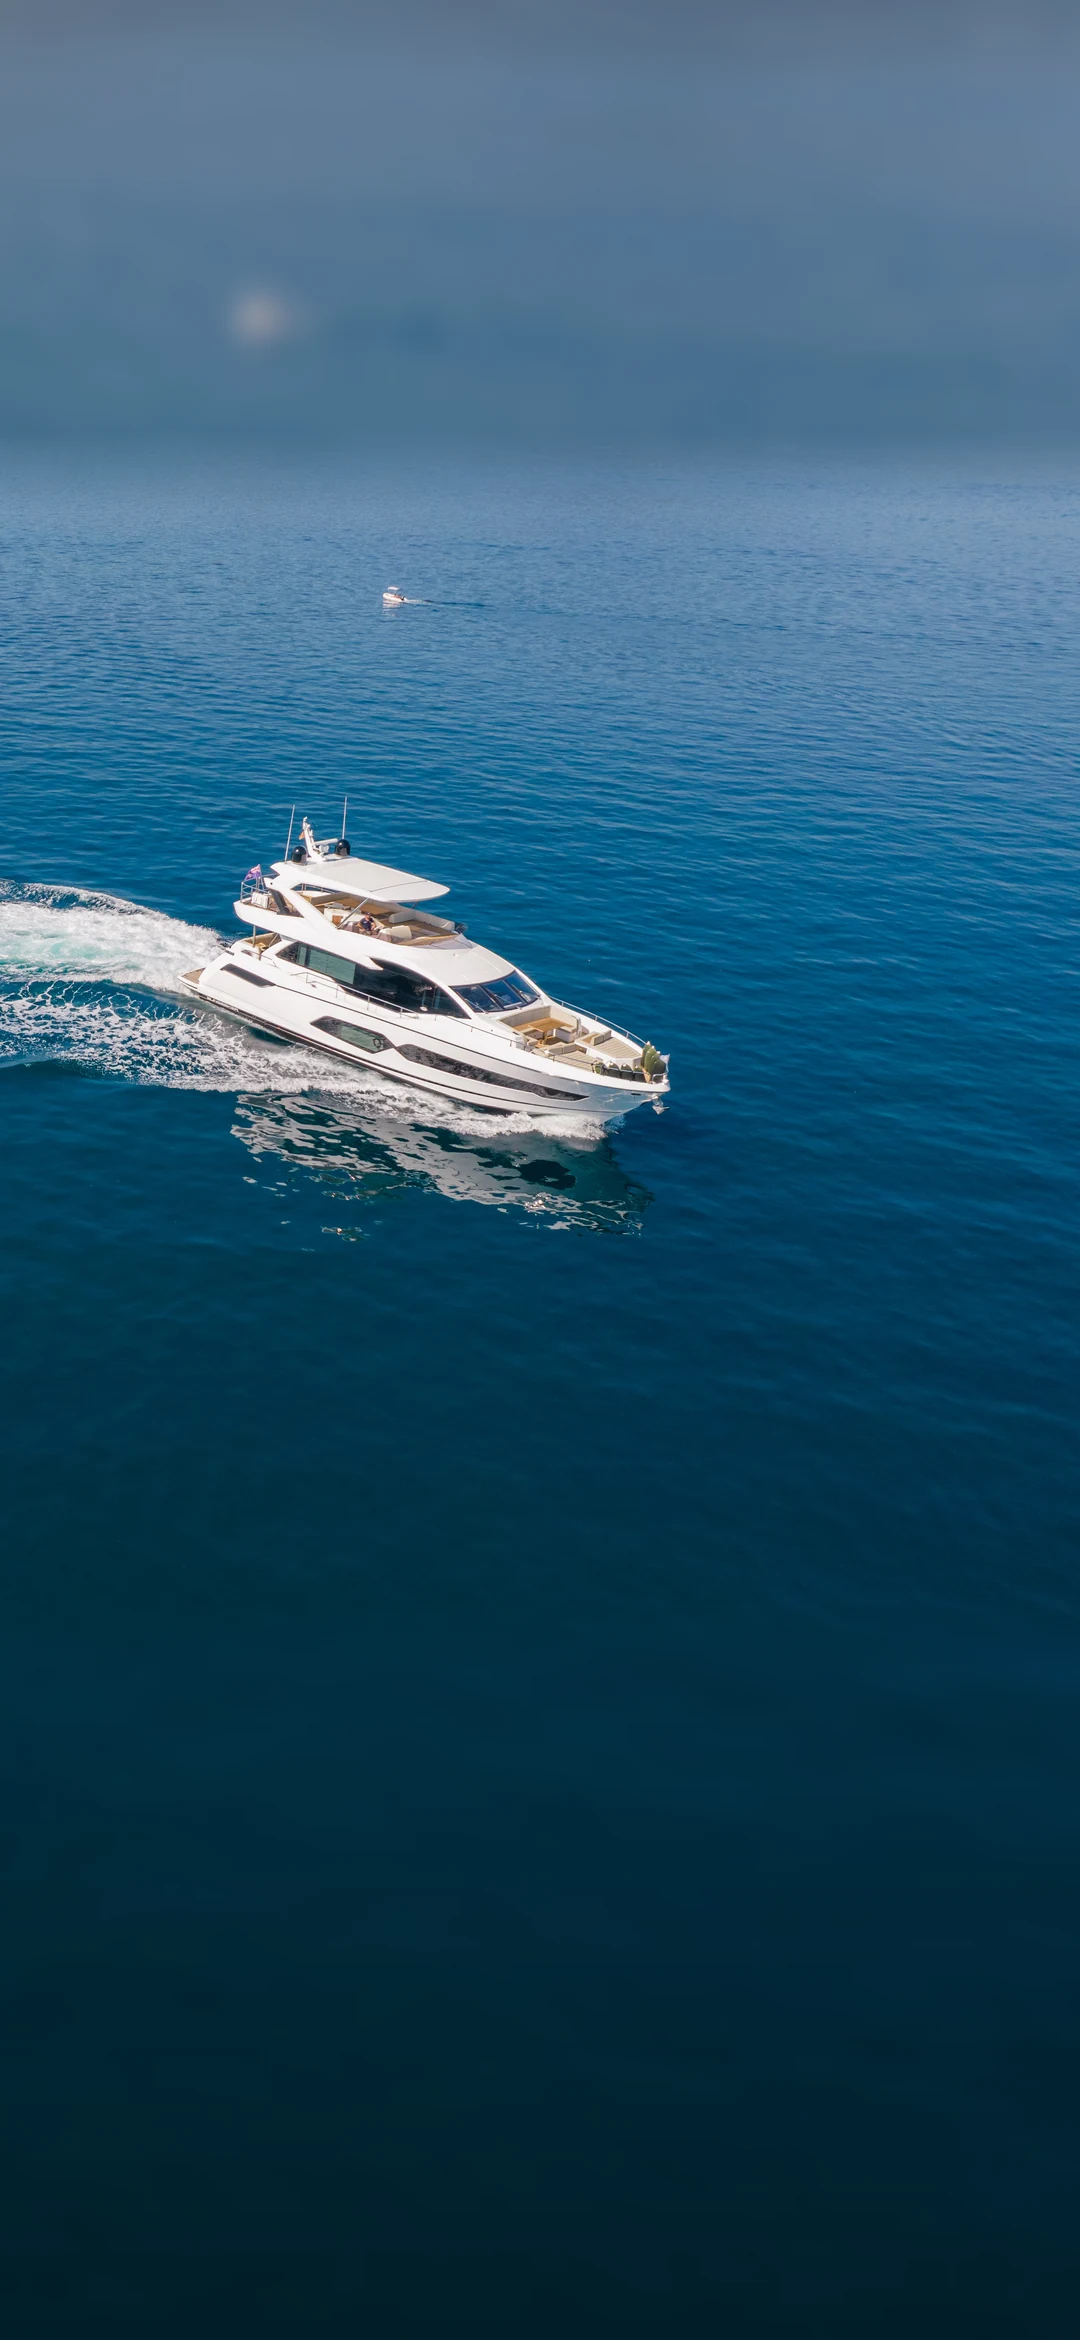
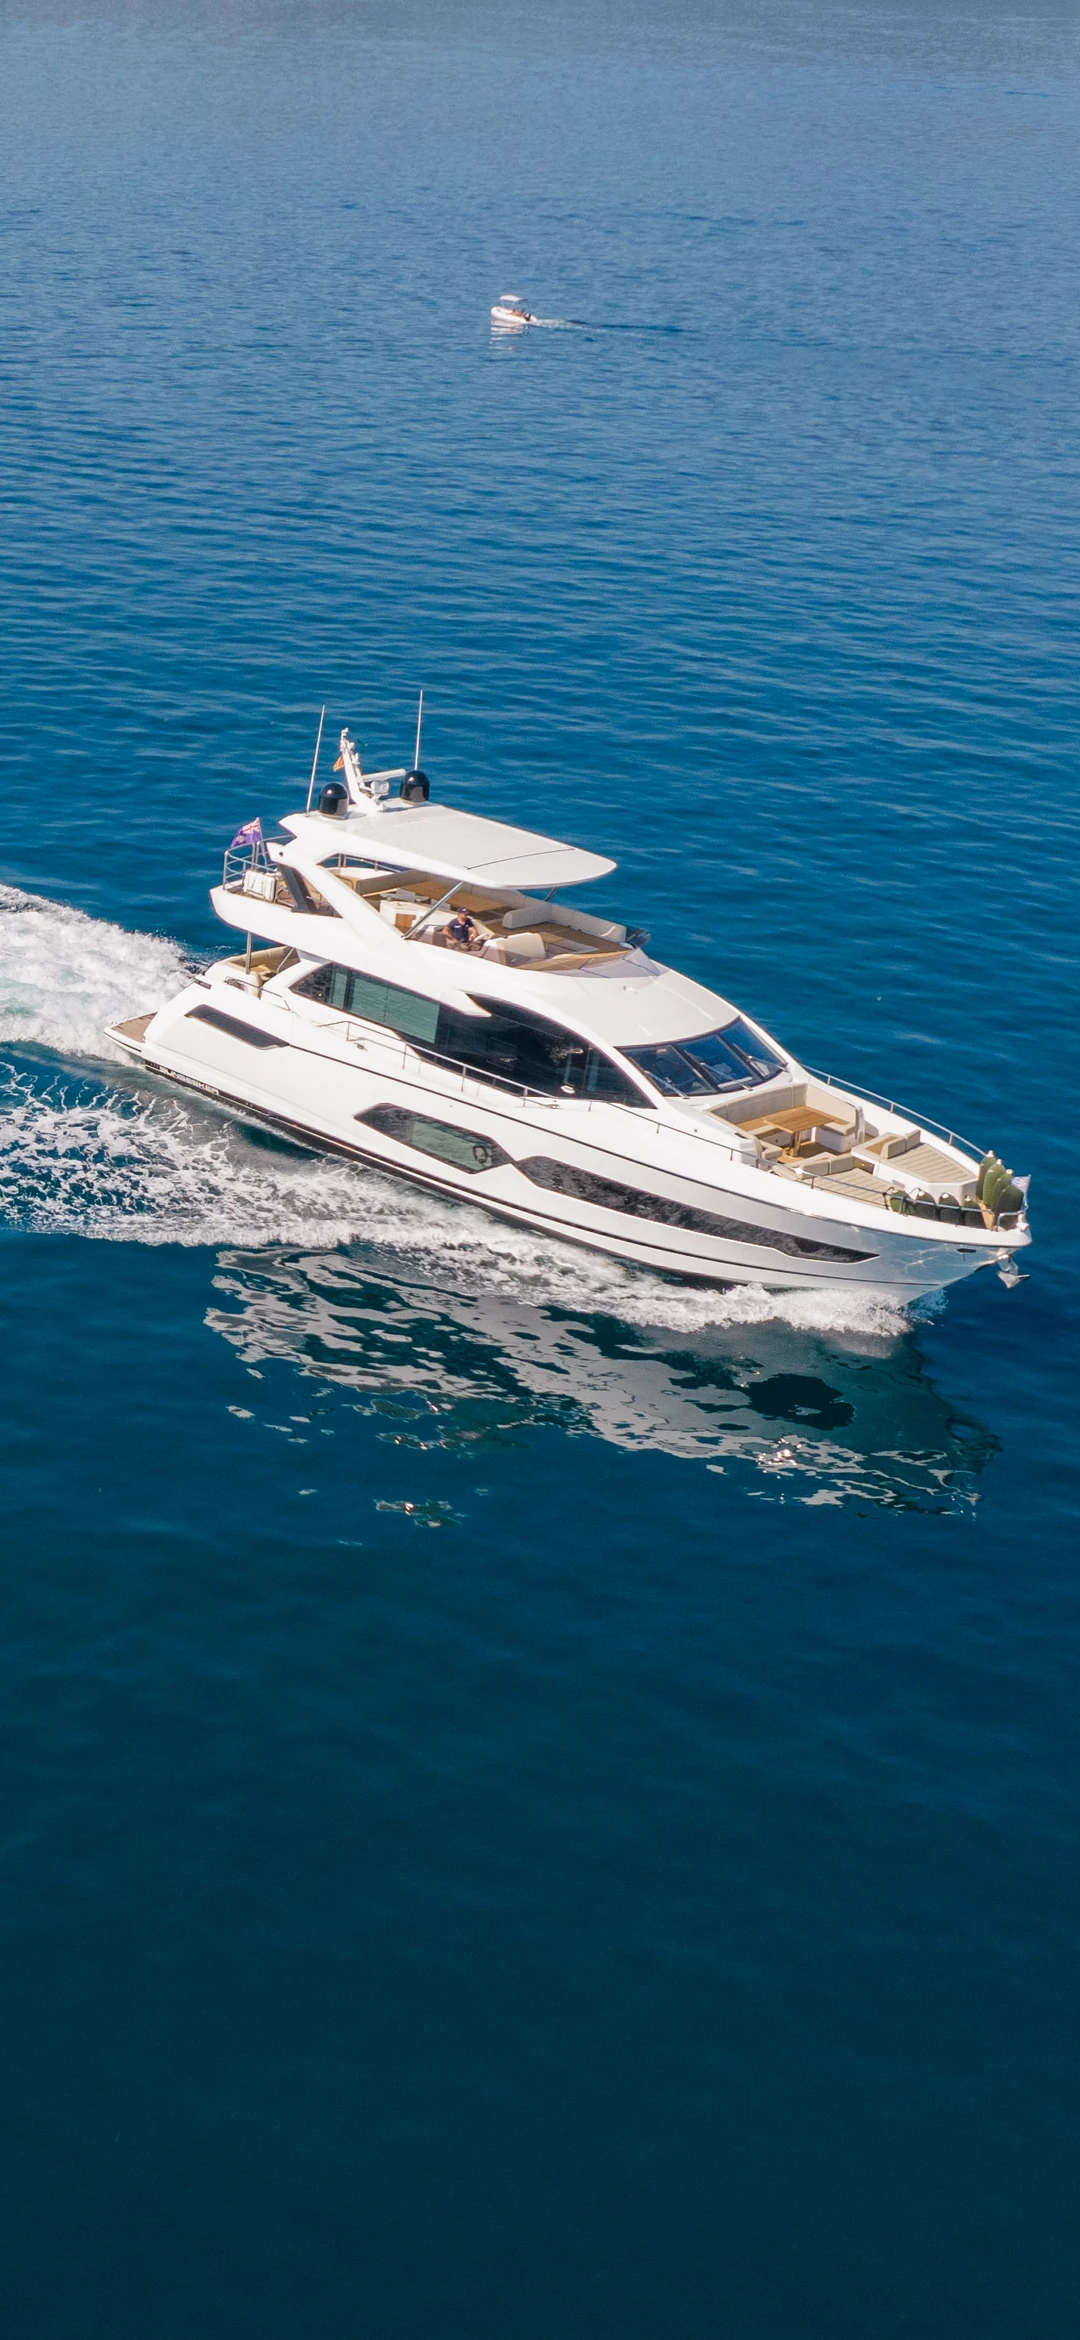
Correct welcome yacht framing

diff --git a/src/app.js b/src/app.js
@@ -11,7 +11,7 @@ const zones = [
   {
     id: "overview",
     media: [
-      localMedia("overview", "dji_0279-stage.webp", "dji_0279-full.webp", "dji_0279-mobile.webp", "52% 50%")
+      localMedia("overview", "dji_0279-stage.webp", "dji_0279-full.webp", "dji_0279-mobile.webp", "50% 50%")
     ],
     en: {
       label: "Overview",